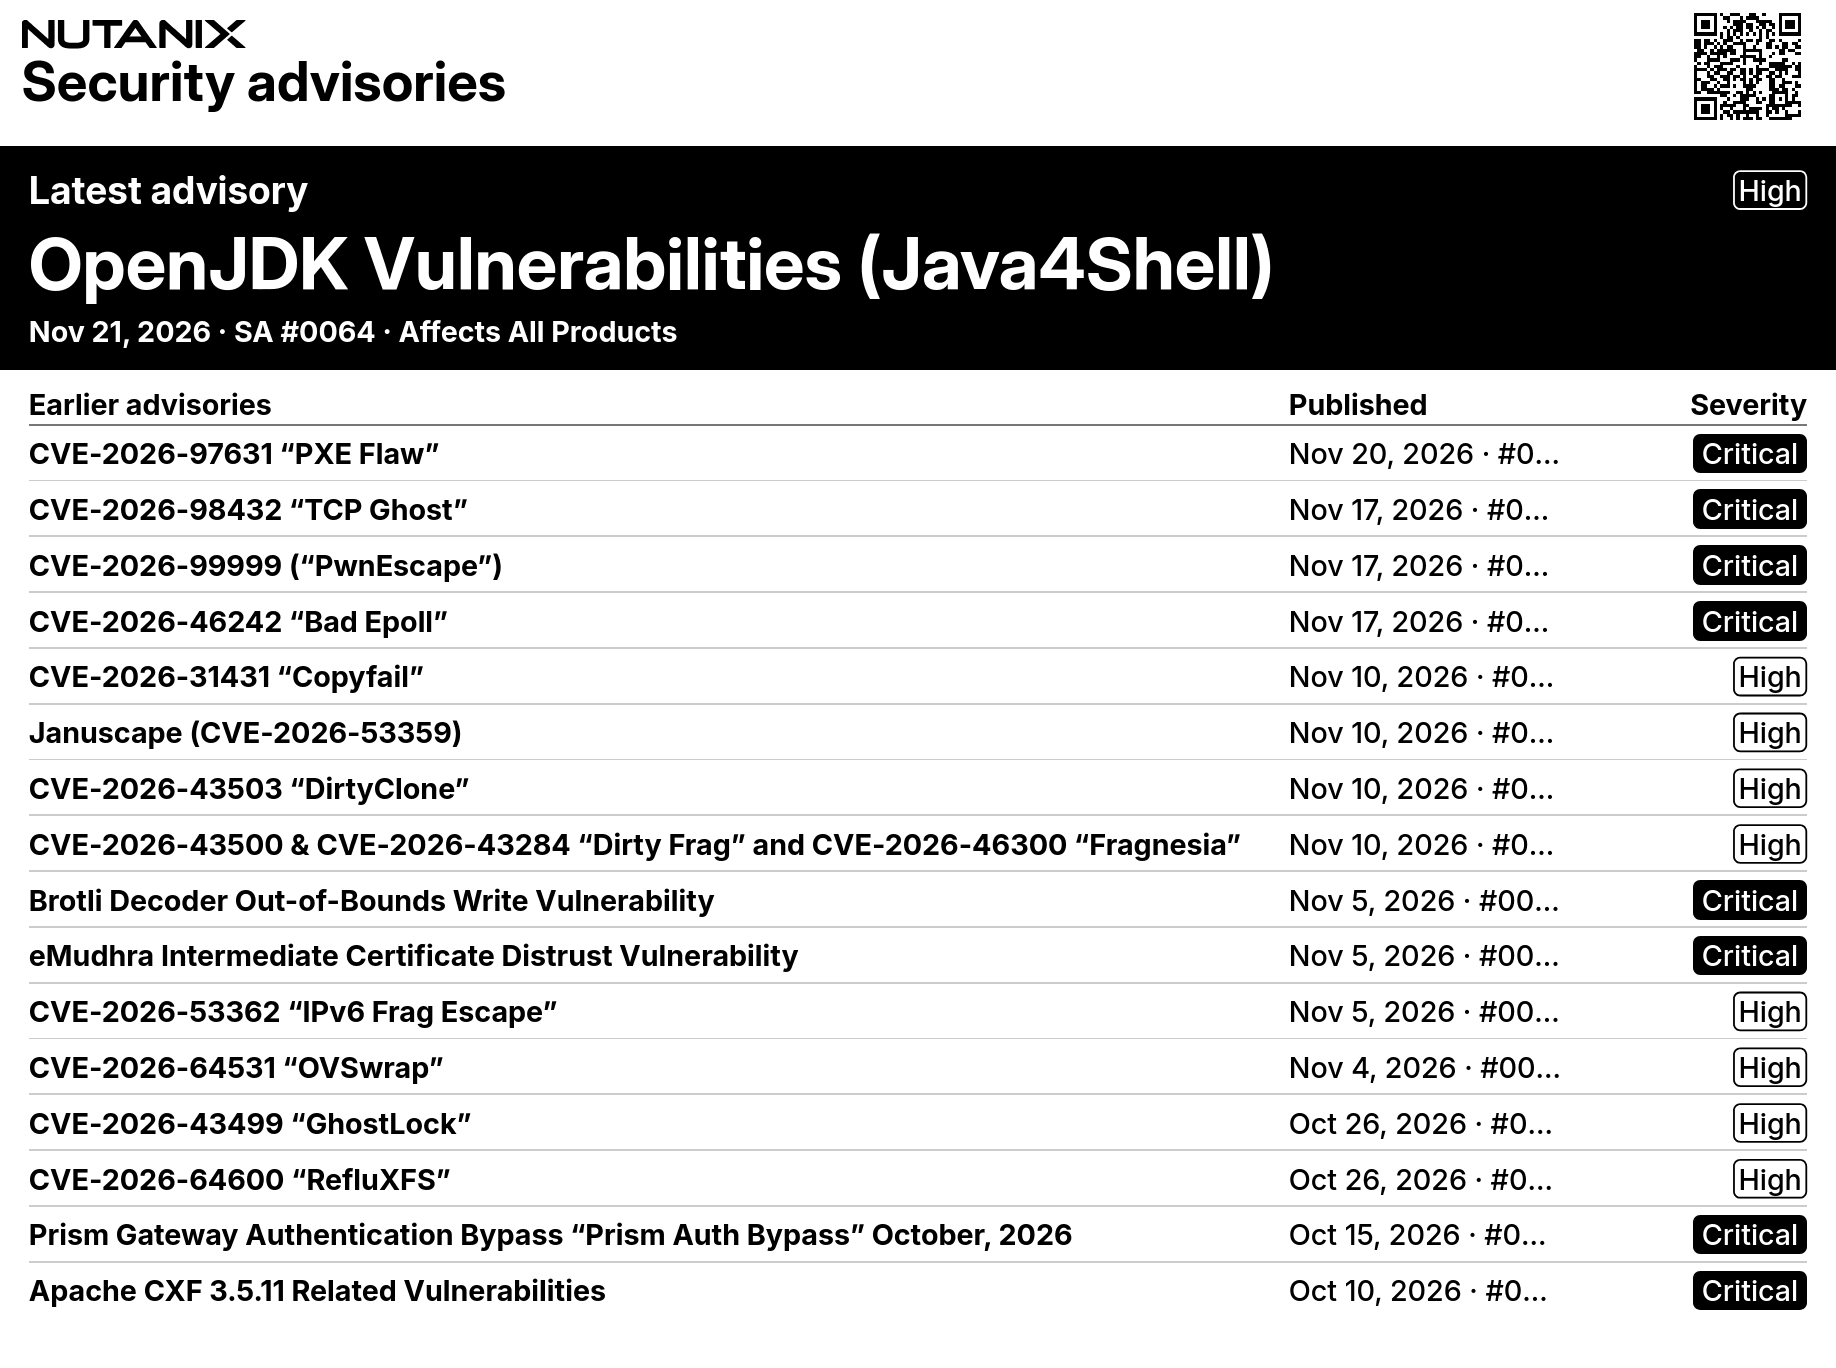
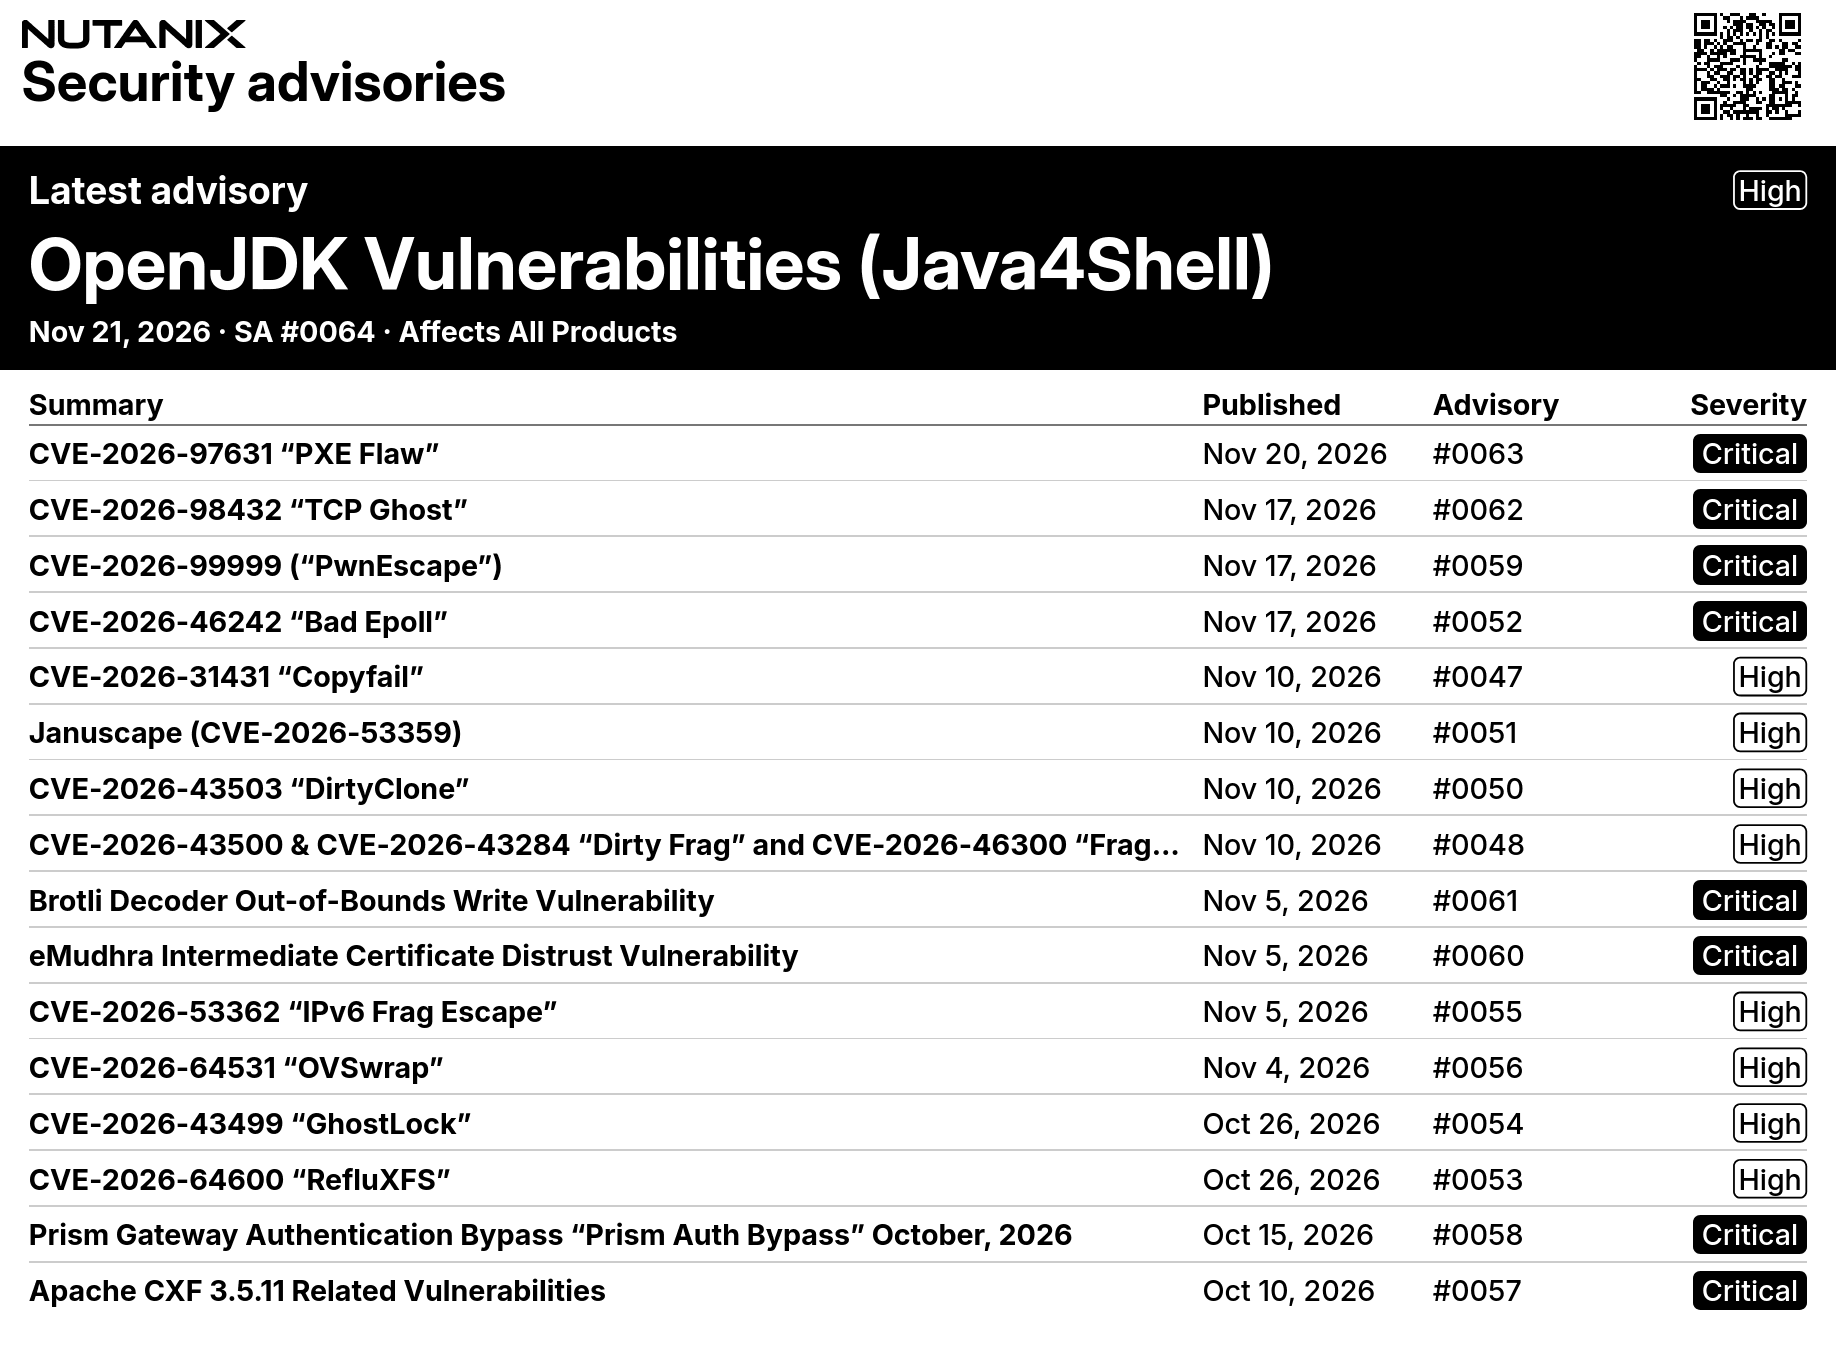
fix: separate advisory numbers from publication dates

diff --git a/TRMNL/tests/layout_spec.rb b/TRMNL/tests/layout_spec.rb
@@ -154,7 +154,13 @@ RSpec.describe 'Nutanix Security layouts' do
           if count > 1 && view == 'full'
             expect(geometry['stackedMetadata']).to be(false)
             expect(geometry['beside']).to be(false)
-            expect(geometry['headers'].size).to eq(mode == 'nxvd' ? 4 : 3)
+            expect(geometry['headers'].size).to eq(4)
+            if mode == 'advisories'
+              expect(geometry['headers']).to eq(%w[Summary Published Advisory Severity])
+              expect(screen).to have_no_css('[data-ns-row] td:nth-child(2)', text: /#/)
+              expect(screen).to have_css('[data-ns-row] td:nth-child(3) > span',
+                                         text: advisory_sort == 'criticality' ? '#0018' : '#0019', exact_text: true)
+            end
           end
           if geometry['rows'].positive?
             expect(geometry['headers'].last).to eq('Severity')

diff --git a/TRMNL/README.md b/TRMNL/README.md
@@ -36,7 +36,7 @@ Rendered with public Nutanix data.
 
 The full view on both TRMNL OG and X has a small QR code in the header. It opens the selected table on Nutanix's support portal. NXVD opens with your selected product. The portal uses its own sort order.
 
-The full views share a lead panel and a table. Advisory rows group the publication date and advisory number. NXVD rows group the product and fixed releases, with separate columns for CVSS and severity. The landscape horizontal split puts the lead beside the table. The OG quadrant shows one featured item, and the X quadrant also fits a short table. [TRMNL X layout guide](https://trmnl.com/framework/docs/3.4/trmnl_x_guide)
+The full views share a lead panel and a table. Advisory rows have separate columns for the publication date and advisory number. NXVD rows group the product and fixed releases, with separate columns for CVSS and severity. The landscape horizontal split puts the lead beside the table. The OG quadrant shows one featured item, and the X quadrant also fits a short table. [TRMNL X layout guide](https://trmnl.com/framework/docs/3.4/trmnl_x_guide)
 
 Full views show as many rows as fit below the lead, up to the 17-item data limit. The framework handles typography, table sizing, and responsive column widths. Text clips in place on first paint. The landscape limits below include the featured item.
 
